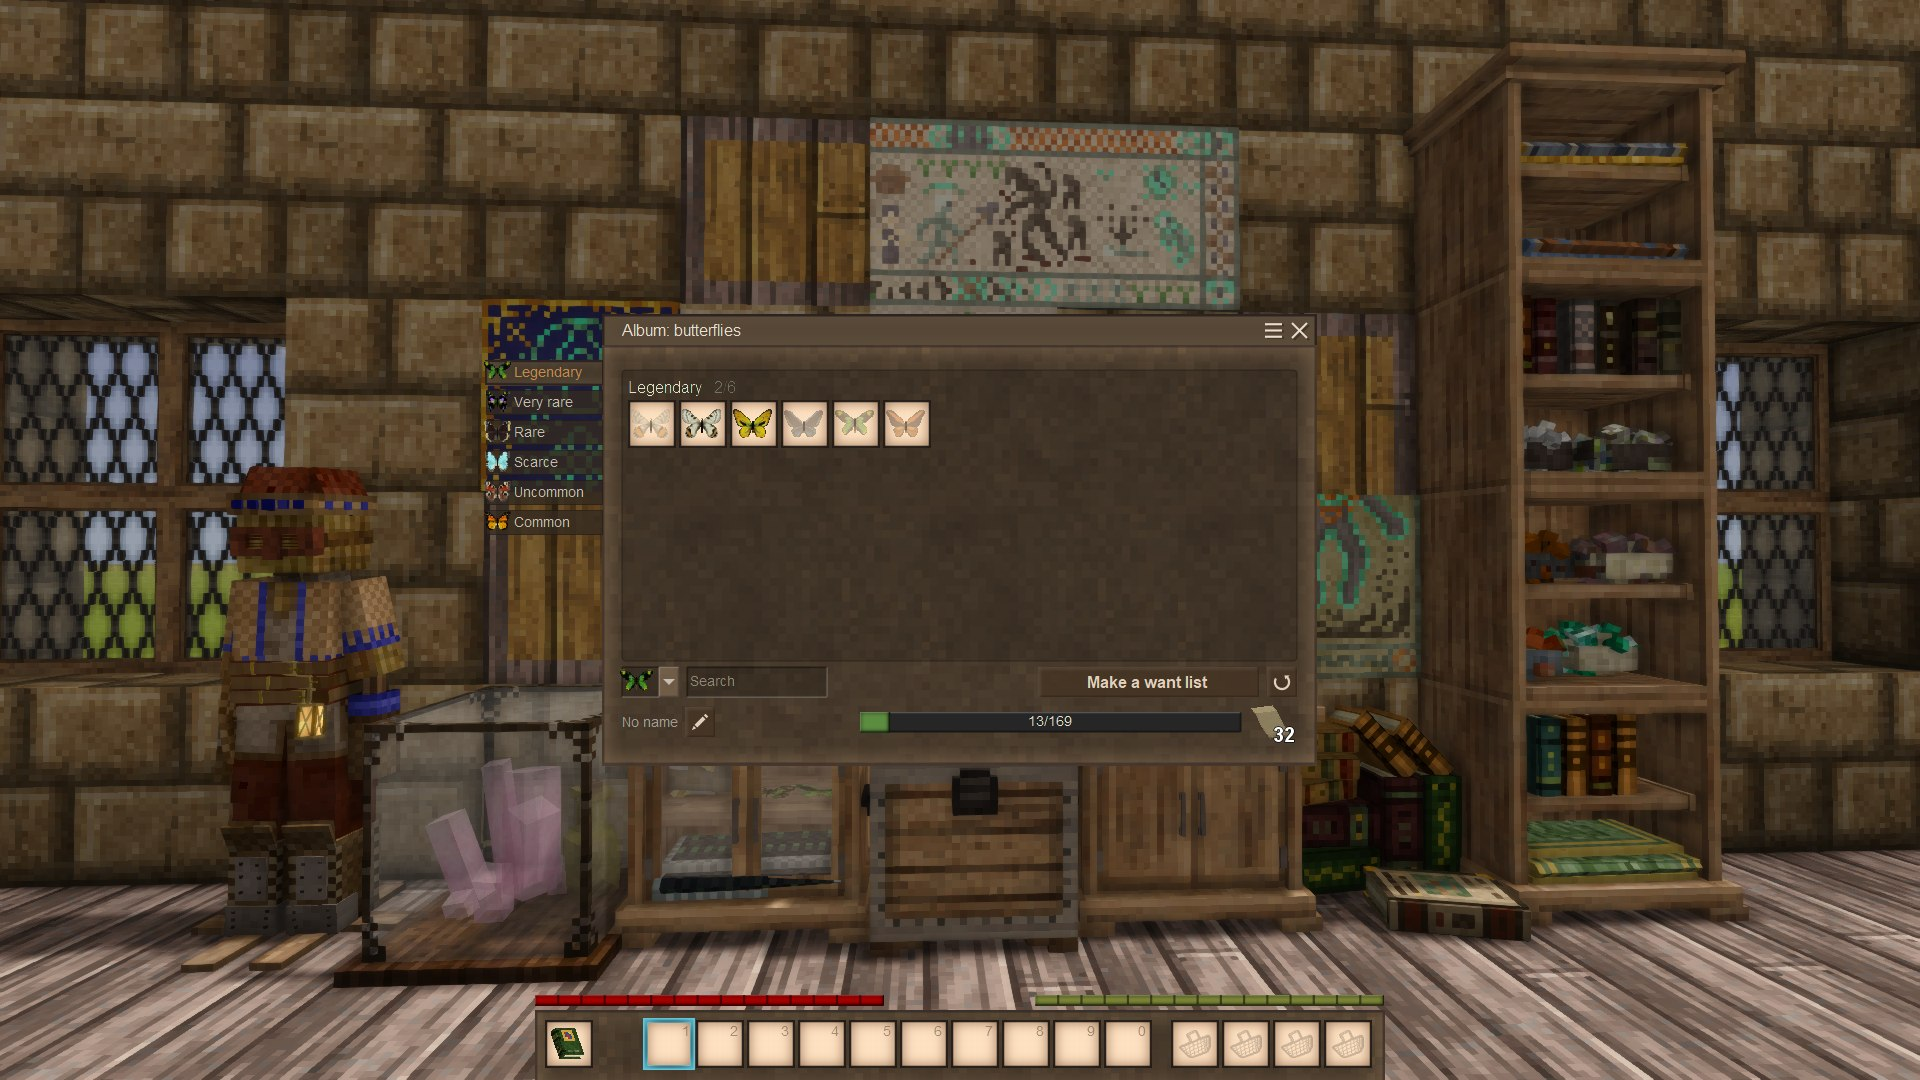
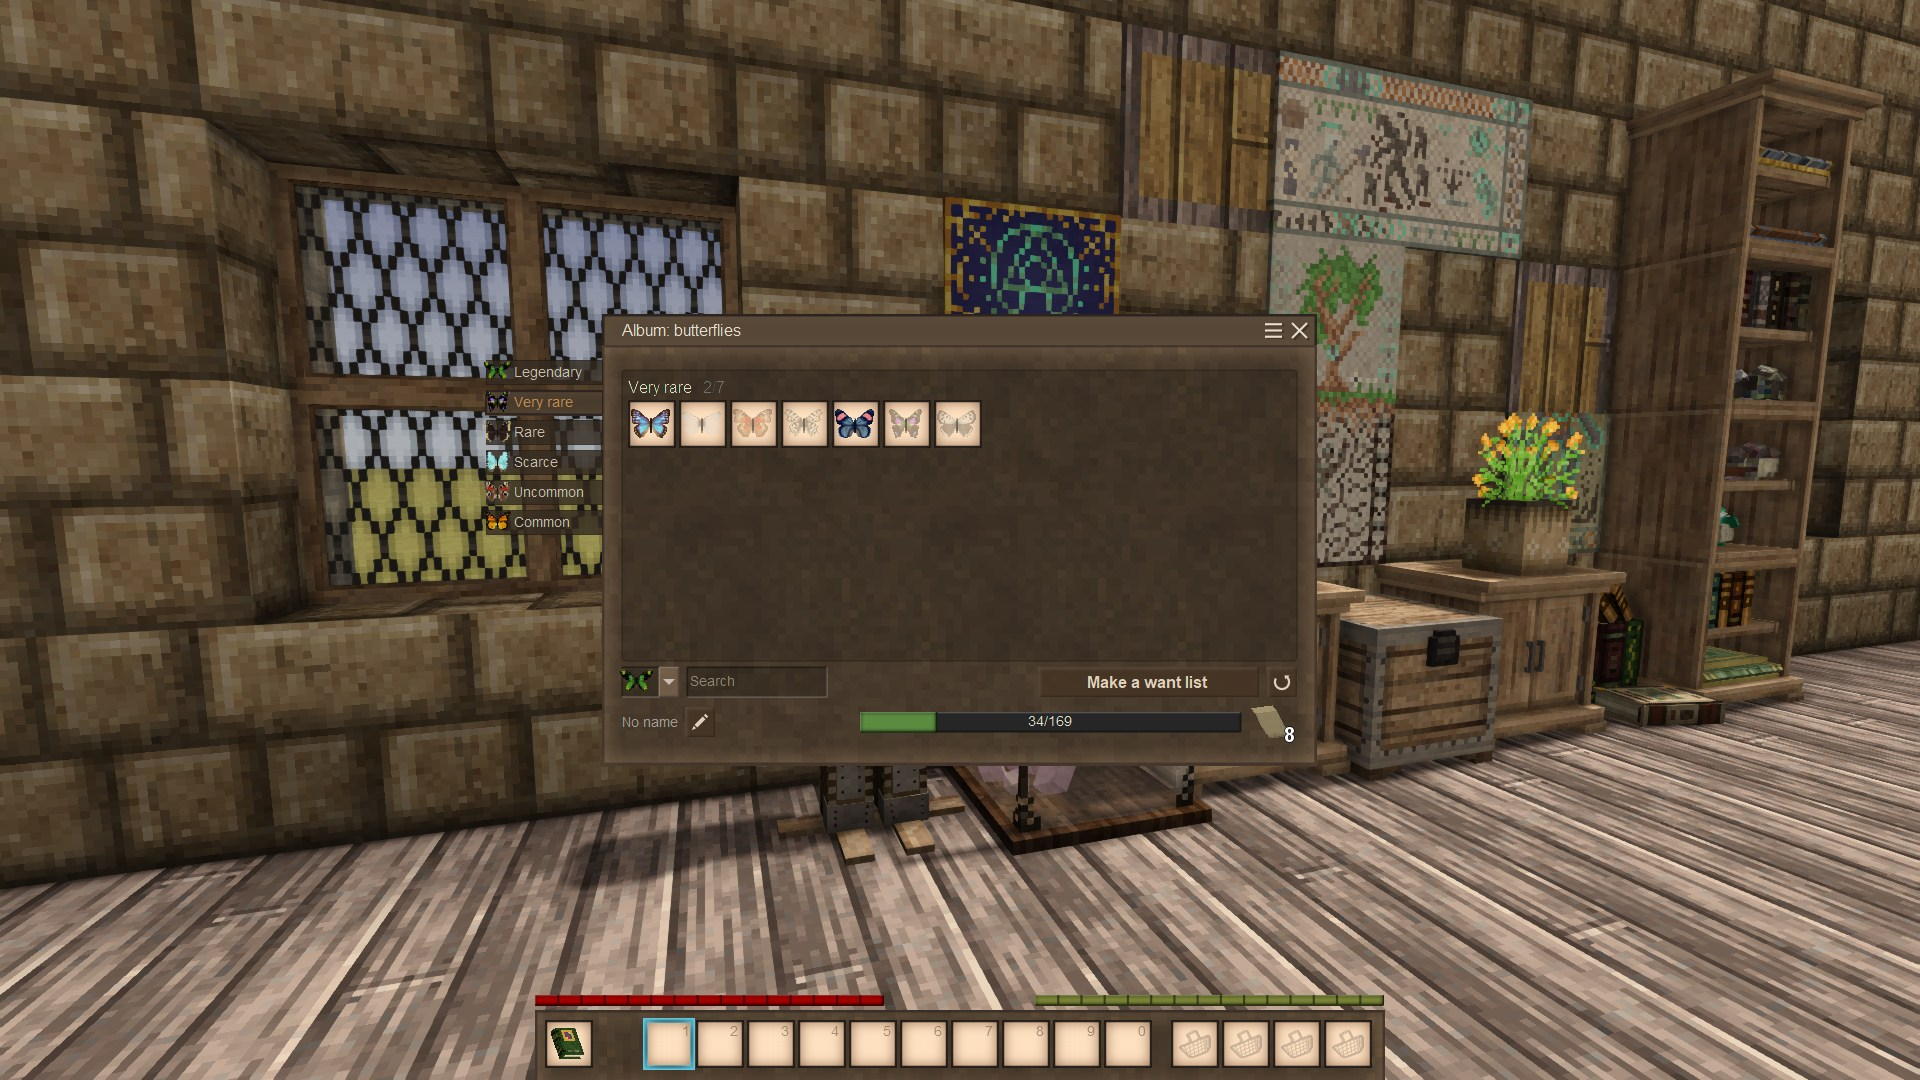
Studio of 0.2 and the en screenshots: props, camera points, album window position (0.2, R3a-2)
- studio.json exported with the props of 0.2 (472 blocks): albums of tapestries 18/88, ore crystals 70/349,
  seashells 8/42, butterflies 34/169, an empty crystals album, a want list at "The richest of each ore"
- the camera points of the three shot macros taken in the new studio
- dialog-positions.json: the title position under the album's own dialog name, curiocatalogue-album
- tools/studio/README.md and docs/screenshots.md (Studio, Props, Window positions, the shot list) brought up to it
- the 14 en frames of the trial run, ledger-intake retaken from the chest
- the plan: R3a closed, decisions of the studio, R3b only uk

diff --git a/docs/screenshots.md b/docs/screenshots.md
@@ -18,9 +18,9 @@ The studio (a WorldEdit schematic) and the macros live in `tools/studio/`; the p
 
 - The scene is kept as a WorldEdit schematic (`/we export`, JSON) in `tools/studio/`, not as a world file: a `.vcdbs` is a
   ~9 MB SQLite database that every save rewrites whole.
-- The schematic `tools/studio/studio.json` (exported 03.11.2026, 465 blocks, 21×8×24): a raised floor of walnut planks, a wall
+- The schematic `tools/studio/studio.json` (exported again 19.11.2026 with the props of 0.2, 472 blocks, 21×8×24): a raised floor of walnut planks, a wall
   of claystone bricks with leaded windows, tapestries with plank frames where a piece is missing, a chest between two
-  cabinets, a display case, a mannequin, a bookshelf; beside the floor, a stack of four trunks. Only vanilla blocks and
+  cabinets, a display case, a mannequin, a bookshelf; beside the floor, the props trunks. Only vanilla blocks and
   ours: no other mod is needed to rebuild it.
 - It carries the block entities: the chest's contents, the books with their data (checked in game 03.11.2026 on a test
   schematic), the cabinets', the display case's and the mannequin's contents (in the file). A book's entries keep the
@@ -68,20 +68,34 @@ back into `tools/studio/` and check that the answer counts the blocks you expect
 
 ## Props
 
-The player's inventory is not in the schematic, so everything the shots hold lives in the studio's **props trunks** (the
-stack of four beside the floor) and goes into the schematic with them. A rebuilt world has the props ready; each language
+The player's inventory is not in the schematic, so everything the shots hold lives in the studio's **props trunks** (beside
+the floor) and goes into the schematic with them. A rebuilt world has the props ready; each language
 starts from a rebuilt world, so a shot that changes a prop (taking new, filling a list) finds it fresh.
 
 - **One cover for every book:** `darkgreen`, which exists both normal and aged (teal and purple have no aged variant);
   the icons of P4 use the same cover. The vanilla book of `first-ledger` is `game:book-normal-darkgreen`, so the
   ledger it makes has that cover too.
-- In the schematic (exported 03.11.2026, 17:05): the album, the ledger, the bill of materials, a want list and the first
-  ledger's ingredients. The shots are taken in the order of the list, so a shot that changes a prop (`album-chest` adds
-  pieces to the album) comes after the shots that need it unchanged. The intake lists of `ledger-intake` and
-  `materials` are made during the run (`tools/studio/README.md`).
+- In the schematic (exported 19.11.2026, 00:55), as a rebuilt world shows them (checked in game 19.11.2026):
+  - **Tapestries album**, named "Tapestries": 18 of 88 (the wall's pieces and four whole pictures: Ambush, The Morning,
+    Salvation, Diet of Kings); `album-chest` makes it 24.
+  - **Ore crystals album**, level *Every crystal*: 70 of 349, native copper 6 of 31 (the page of `collection-crystals`).
+  - **Seashells album**, level *Every type in every colour*: 8 of 42, two of them rare colours (seafoam, turquoise).
+  - **Butterflies album**: 34 of 169 (every fifth species of the definition's list).
+  - An **empty ore crystals album** (no level chosen) for `album-level`, and a **want list** of ore crystals at *The
+    richest of each ore* (16 lines) for `wantlist`.
+  - The **ledger**, the **bill of materials** (empty) and the first ledger's ingredients.
+  - The books, the lists and the ingredients share one trunk; the other three albums each lie in a trunk of their own,
+    with spare items of their collection (what the album took went into the inventory, and back into the trunk).
+    Other trunks hold spare tapestry pieces.
+- How the props were made (19.11.2026, for the next version's fuller albums): the items were given by macros of
+  `/giveitem` and `/giveblock` (crystals only of the grades and rocks the game's deposits generate, read from
+  `worldgen/deposits/metalore/*.json`), put into a trunk outside the studio and taken by Shift + right click; the albums
+  were crafted from ledgers of the first-ledger recipe (a given ledger has 0 sheets, so it makes no want list).
+- The shots are taken in the order of the list, so a shot that changes a prop (`album-chest` adds pieces to the album)
+  comes after the shots that need it unchanged. The intake lists of `ledger-intake` and `materials` are made during the
+  run (`tools/studio/README.md`).
 
-The album has taken every piece on the tapestry wall, so its "Missing" grid has the frames' pieces among the rest.
-The studio's **chest** holds duplicates of pieces on the wall and a few pieces the album lacks (what `album-chest` takes);
+The studio's **chest** holds duplicates of pieces on the wall and six pieces the album lacks (what `album-chest` takes);
 the ledger's intake list (`ledger-intake`) is made from it. The **handbasket** on the cabinet holds planks and resin: the
 bill of materials' intake list (`materials`) is made from it. The bill of materials itself is empty (nothing posted into
 it yet), so `materials` shows its intake list, not its window.
@@ -112,15 +126,15 @@ The shot list of 0.2 (decided 13.11.2026, G5 of `docs/plans/2026-11-04-mod-descr
 | `album-chest-2` | 6 | the guide, Gestures: second | the album; Shift + right click on the chest, F12 within 15 s | looking at the chest, the Shift hint at the bottom; in the chat the message of the "take new" just done |
 | `album-chest-3` | — | the guide, Gestures: third | the album; right click into the air | the same page, the new pieces in place |
 | `album-level` | — | the guide, Collections | an empty ore crystals album; right click into the air | the window with the choice of a level |
-| `wantlist` | 7 | the guide, Collections | a want list of ore crystals at "Each ore in each rock"; right click into the air | the want list's window, lines that say "any rock" |
+| `wantlist` | 7 | the guide, Collections | a want list of ore crystals at "The richest of each ore" (its lines are "any rock"; "Each ore in each rock" names one rock in every line); right click into the air | the want list's window, its slots showing the crystals of each line in turn (no tooltip) |
 | `butterflies-family` | — | the guide, Collections: first of the butterflies' pair | the butterflies album | "By family" |
 | `ledger-intake` | 8 | the guide, Gestures | the ledger's intake list, the ledger in the off-hand; right click into the air | the list's window (tapestries) |
 | `materials` | 9 | the guide | the bill of materials' intake list, the book in the off-hand; right click into the air | the list's window with counts (planks, resin) |
 | `first-ledger` | 10 | the guide, Getting started | survival mode (the creative inventory has no grid); E; the ingredients into the 3×3 grid; F12 after the chat is gone (15 s: the game mode messages come after `.clearchat`) | the inventory, the first ledger's recipe in the grid and the ledger as the result |
 
 `album-window` of 0.1 is gone: the hero is `title`, the album's window is shown by the carousel. The props, the macros and
-the script for this list are made (R3a of `docs/plans/2026-11-04-release-0.2.md`); the props and the real camera points
-follow in R3a-2 (until then the points in the macros are drafts taken from 0.1).
+the script for this list are made (R3a of `docs/plans/2026-11-04-release-0.2.md`), the camera points taken in the
+studio of 0.2 (19.11.2026).
 
 **Macros by camera, not by shot** (decided 18.11.2026): the shots share one camera point, so three macros do for 14 shots,
 and the book in the hand says which shot it is. **Alt+1** the common point (`11-shot-point.json`: `title`, `collection-*`,
@@ -150,10 +164,13 @@ centres the window. A container's window is placed by its block, not by this lis
 
 - Every shot keeps its windows on "auto" (centred), so `en` and `uk` frames match, except `title`: there the album's
   window is on the left and the tapestry wall on the right (a centred window covers the wall).
-- All our books share one dialog name, `curiocatalogue-ledger` (the lists: `curiocatalogue-invoice`), so the position
-  for `title` would move `album-window` too. It is kept in `tools/studio/dialog-positions.json` and written by
-  `tools/screenshots.ps1 -Action Prepare`; `title` is shot first, then "auto" in the album window's ☰ menu puts it back
-  in the centre for the rest of the run.
+- The album's window has its own dialog name, `curiocatalogue-album` (since 0.2; the ledger and the bill of materials:
+  `curiocatalogue-ledger`, the lists: `curiocatalogue-invoice`), so the position for `title` moves every album shot. It
+  is kept in `tools/studio/dialog-positions.json` (78, 52: the album's window is 975 px high at GUI scale 1.0, so its
+  top stays where "auto" puts it) and written by `tools/screenshots.ps1 -Action Prepare`; `title` is shot first, then
+  "auto" in the album window's ☰ menu puts it back in the centre for the rest of the run.
+- The stored X and Y are the window's top left corner in pixels divided by the GUI scale (vsapi
+  `GuiElementDialogTitleBar.cs`, 1.22.7).
 - The inventory (`inventory-backpack`) opens on the right on "auto"; for `first-ledger` it is dragged to the centre, and
   that position is in the same file. The inventory is in no other shot, so it may stay.
 - "auto" in the ☰ menu writes `null` for the window in `dialogPositions`.

diff --git a/docs/plans/2026-11-04-release-0.2.md b/docs/plans/2026-11-04-release-0.2.md
@@ -62,8 +62,8 @@ branch with a test, a case in `functional.md` and a `CHANGELOG.md` line; a fix t
       view (this is the "screenshots taken again" line of `ROADMAP.md`, 0.2, item 6); the gallery's order is the shot list's
       column "Gallery". Also checks how reproducible the process is (rebuilt studio, macros, script).
       Split in three (the author, 13.11.2026), each a session of its own:
-  - [ ] **R3a. The studio for 0.2** (split 18.11.2026 into R3a-1, the files, and R3a-2, the game). The props in the studio's trunks (an album per collection about 20 % full, an empty ore
-        crystals album, a want list of ore crystals at "Each ore in each rock", the chest with pieces new to the tapestries album);
+  - [x] **R3a. The studio for 0.2** (split 18.11.2026 into R3a-1, the files, and R3a-2, the game). The props in the studio's trunks (an album per collection about 20 % full, an empty ore
+        crystals album, a want list of ore crystals at "The richest of each ore", the chest with pieces new to the tapestries album);
         the camera points (one for every shot, `album-chest-2` its own) and the macros for the 14 shots; `tools/screenshots.ps1`
         (`Collect`, `Check`, which shots are JPEG) and `tools/studio/README.md` for 14 shots instead of 7; the studio exported
         again, `docs/screenshots.md` (Studio, Props, Macros) brought up to it.
@@ -73,12 +73,16 @@ branch with a test, a case in `functional.md` and a `CHANGELOG.md` line; a fix t
         accept.
     - [x] **R3a-1.** `tools/screenshots.ps1` for 14 shots (`Collect` takes 14, JPEG for `title` and `collection-*`, `Prepare` removes stale
       shot macros; trial run on fake frames passed), three macros by camera (Alt+1 common point, Alt+2 chest, Alt+3 first-ledger),
-      `tools/studio/README.md` and `docs/screenshots.md` (Macros, Script) brought up to it. Final, not yet committed.
-    - [ ] **R3a-2.** In game, by the agent's steps: the props in the trunks (an album per collection about 20 % full, an empty ore
-      crystals album, the want list at "Each ore in each rock", the chest with pieces new to the tapestries album), the two camera
+      `tools/studio/README.md` and `docs/screenshots.md` (Macros, Script) brought up to it. Final, committed (`1c09113`).
+    - [x] **R3a-2.** In game, by the agent's steps: the props in the trunks (an album per collection about 20 % full, an empty ore
+      crystals album, the want list at "The richest of each ore", the chest with pieces new to the tapestries album), the two camera
       points (common, chest; the macros hold drafts from 0.1), the studio exported again (`studio.json`), `docs/screenshots.md`
       (Studio, Props) with the real numbers, a trial run in one language. Author: in game. Model: sonnet.
-  - [ ] **R3b. The shooting.** By `tools/studio/README.md`, `en` and `uk`, each language from a rebuilt world.
+      Done 19.11.2026: studio exported (472 blocks), points in the three macros, the album's window position under its own
+      name `curiocatalogue-album`; trial run in `en` from a rebuilt world, 14 frames that `Collect` and `Check` accepted.
+      The `en` frames of the trial run are FINAL (the author, 19.11.2026), in `docs/images/`: `ledger-intake` was made from
+      the basket by mistake and retaken alone in the same world (put in place by hand). R3b shoots only `uk`.
+  - [ ] **R3b. The shooting.** By `tools/studio/README.md`, `uk` from a rebuilt world (`en` was taken in R3a-2).
         Branch: `docs/release-0.2`. After: R3a. Model: sonnet (the steps and the look at the frames). Author: shoots.
         Done when: the 28 files are in `docs/images/` and `Check` is clean.
   - [ ] **R3c. The shots in place.** `album-window` removed from `docs/images/` and from both descriptions (the hero becomes
@@ -189,6 +193,16 @@ Found 18.11.2026 in R2b; decided with the author the same day:
   grades. R7 checks which.
 - Vanilla sizes (1.22.7): 1×1, 1×2, 1×3, 2×1, 2×2, 3×1, 4×1; the album view plan's sketch listed five.
 
+### The studio (R3a)
+
+- **The want list of `wantlist` is at *The richest of each ore*** (the author, 19.11.2026): only that level has lines
+  with "any rock" (quartz gold in 13 rocks); at *Each ore in each rock*, which the step first named, every line names a
+  rock. The frame shows the window without a tooltip (the author, 19.11.2026): a slot of several crystals shows them in
+  turn, so a tooltip would catch a different crystal in `en` and `uk`; the guide's text says "any rock".
+- **`collection-butterflies` on the tab *Very rare*** (the author, 19.11.2026): *Legendary*, the first tab, is empty.
+- **The album names stay as they are** (the author, 19.11.2026): the tapestries album is named "Tapestries" (it shows that
+  an album can be named; the name is English in the `uk` frames too), the other three show the game's "No name".
+
 ### The code review (R1)
 
 Scope (16.11.2026): `ac8602c..e9677a3` (all of 0.2 after the core reviewed in K7) and the page generator from `v0.1.1`. Six
@@ -284,3 +298,6 @@ critical, one major. All tests green at `e9677a3`; `BookEdgeTests.L5` flaked onc
 - 18.11.2026 (opus): R2c done on `docs/release-0.2` (final texts, approved; not yet committed): `CHANGELOG.md` 0.2.0 grouped and
   completed, both descriptions (warning, What's new, the collections table, "картина"), README's warning. `PageGen.Tests` green,
   the page 37 849 bytes. R2 is closed. Next: R3a (sonnet), and R4 (sonnet, After: R2c) on the release zip.
+- 19.11.2026 (opus): R3a-2 done on `docs/release-0.2` (final, not yet committed): see the step; R3a is closed. Also found:
+  `Prepare` did not remove the 0.1 macro `12-Shot_album-window.json` (another name pattern, same key Alt+2); renamed in the
+  dev data folder by hand. Next: R3b (sonnet), only `uk`, from a rebuilt world.

diff --git a/tools/studio/README.md b/tools/studio/README.md
@@ -29,14 +29,17 @@ machine): `Set-ExecutionPolicy -Scope Process -ExecutionPolicy Bypass`, then run
 3. From the trunks (right click) take into the inventory (the props are listed in `docs/screenshots.md`, "Props"):
    the **tapestries, ore crystals, seashells and butterflies albums** (about a fifth full), the **empty ore crystals
    album**, the **want list**, the **ledger**, the **bill of materials**, and the first ledger's ingredients (a green
-   **book**, two **nails and strips**, **ink and quill**).
+   **book**, two **nails and strips**, **ink and quill**). The books, the lists and the ingredients are in one trunk; the
+   ore crystals, seashells and butterflies albums each lie in a trunk of their own, among spare items of their collection.
 
 ## 3. The 14 shots
 
 Each shot: press its macro key if the row says so (it moves the camera; **do not touch the mouse** after it), do what the
 row says, press **F12** once. Take them **in this order** and press F12 nowhere else: the script takes the 14 newest
 frames in this order. A frame came out wrong: delete it at once from `Pictures\Vintagestory` and take it again (but a shot
-that changed a prop, the `album-chest` ones, is retaken from a rebuilt world).
+that changed a prop, the `album-chest` ones, is retaken from a rebuilt world). A frame found wrong after the run: take it
+alone in the same world, then the agent puts it in place by hand (`Collect` takes 14). The world is in survival after
+`first-ledger`, and the camera keys do nothing there: type `/gamemode creative` first.
 
 Keys: **Alt+1** goes to the common camera point, **Alt+2** to the chest's, **Alt+3** is the first ledger's. After
 Alt+1 you stay at the point for the shots that follow until the row says another key.
@@ -47,15 +50,15 @@ Alt+1 you stay at the point for the shots that follow until the row says another
 | 2 | `collection-tapestries` | | the tapestries album | right click into the air | at once; Esc |
 | 3 | `collection-crystals` | | the ore crystals album | right click; choose the level **Every crystal**, turn to the page of native copper | at once; Esc |
 | 4 | `collection-seashells` | | the seashells album | right click; the level **Every type in every colour** | at once; Esc |
-| 5 | `collection-butterflies` | | the butterflies album | right click; the layout **By rarity** | at once; Esc |
+| 5 | `collection-butterflies` | | the butterflies album | right click; the layout **By rarity**, the tab **Very rare** (Legendary is empty) | at once; Esc |
 | 6 | `album-chest-1` | | the tapestries album | right click into the air: the page with the gaps the chest will fill | at once; Esc |
 | 7 | `album-chest-2` | **Alt+2** | the tapestries album | Shift + right click (the camera looks at the chest) | the chat shows "Taken for the collection…" (within 15 s) |
-| 8 | `album-chest-3` | **Alt+1** | the tapestries album | right click into the air: the same page, the new pieces in place | at once; Esc |
+| 8 | `album-chest-3` | **Alt+1** | the tapestries album | right click into the air: the same page, the new pieces in place (keep the taken pieces in the hotbar, as in shot 7) | at once; Esc. Then put the six taken pieces back into the chest: the ledger's list of shot 12 has 7 lines (8 pieces), as in `en` |
 | 9 | `album-level` | | the empty ore crystals album | right click into the air: the choice of a level | at once; Esc |
-| 10 | `wantlist` | | the want list of ore crystals | right click into the air | at once; Esc |
+| 10 | `wantlist` | | the want list of ore crystals (level *The richest of each ore*) | right click into the air; do not hover a slot (its crystals change in turn, so a tooltip would differ between languages) | at once; Esc |
 | 11 | `butterflies-family` | | the butterflies album | right click; the layout **By family** | at once; Esc |
-| 12 | `ledger-intake` | | the ledger in the off-hand (F), the hand empty; aim at the chest and Shift + right click: an intake list appears. Take it into the hand | right click into the air | at once; Esc |
-| 13 | `materials` | | the bill of materials in the off-hand, the hand empty; aim at the basket and Shift + right click: an intake list appears. Take it into the hand | right click into the air | at once; Esc |
+| 12 | `ledger-intake` | **Alt+1** after the list is in the hand | the ledger in the off-hand (F), the hand empty; aim at the **chest between the cabinets** (not the basket on the left cabinet) and Shift + right click: an intake list of tapestry pieces appears. Take it into the hand | right click into the air | at once; Esc |
+| 13 | `materials` | **Alt+1** after the list is in the hand | the bill of materials in the off-hand, the hand empty; aim at the basket and Shift + right click: an intake list appears. Take it into the hand | right click into the air | at once; Esc |
 | 14 | `first-ledger` | **Alt+3** | the ingredients in the inventory | the game switches to survival. **E**: the inventory opens in the middle. Into the 3×3 grid: the book in the centre, nails and strips above and below it, ink and quill on its right; the ledger appears as the result | wait until the chat fades (15 s) |
 
 Close the game.
